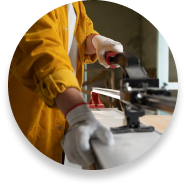
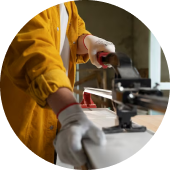
feat: replace offer images

diff --git a/index.html b/index.html
@@ -14,29 +14,29 @@
         <div class="offer__list">
           <div class="offer__item">
             <div class="offer__image">
-              <img src="" alt="" />
-              <p class="offer__text"></p>
+              <img src="./blocks_art6/block_offer_art6/images/offer-1.png" alt="" />
+              <p class="offer__text">После процедуры выдаются заключение врача, фотографии и видеоматериалы</p>
             </div>
           </div>
 
           <div class="offer__item">
             <div class="offer__image">
-              <img src="" alt="" />
-              <p class="offer__text"></p>
+              <img src="./blocks_art6/block_offer_art6/images/offer-2.png" alt="" />
+              <p class="offer__text">Самый тонкий в мире гистероскоп Karl Storz–диаметр 2,9 мм</p>
             </div>
           </div>
 
           <div class="offer__item">
             <div class="offer__image">
-              <img src="" alt="" />
-              <p class="offer__text"></p>
+              <img src="./blocks_art6/block_offer_art6/images/offer-3.png" alt="" />
+              <p class="offer__text">Подготовка к гистероскопии и сдача анализов – не нужны</p>
             </div>
           </div>
 
           <div class="offer__item">
             <div class="offer__image">
-              <img src="" alt="" />
-              <p class="offer__text"></p>
+              <img src="./blocks_art6/block_offer_art6/images/offer-4.png" alt="" />
+              <p class="offer__text">Без периода восстановления и приема препаратов</p>
             </div>
           </div>
         </div>
